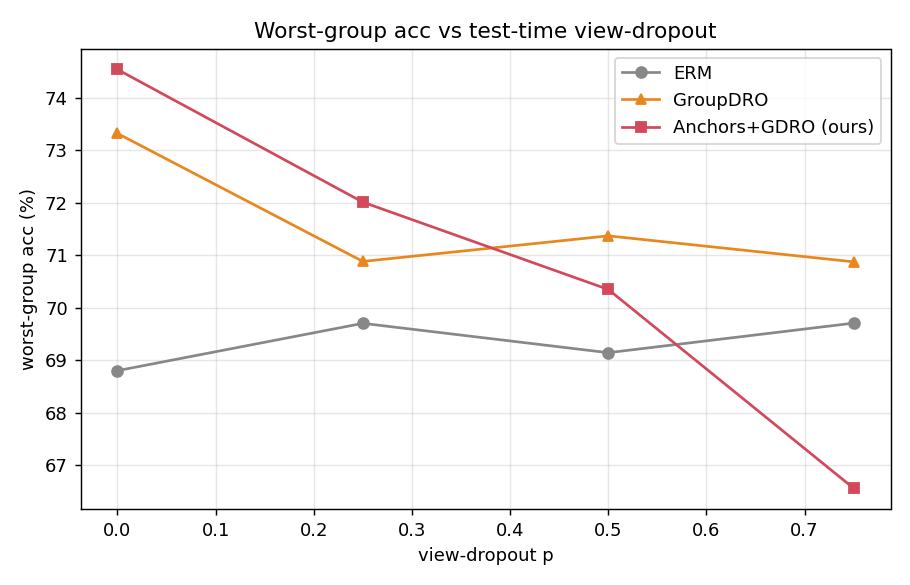
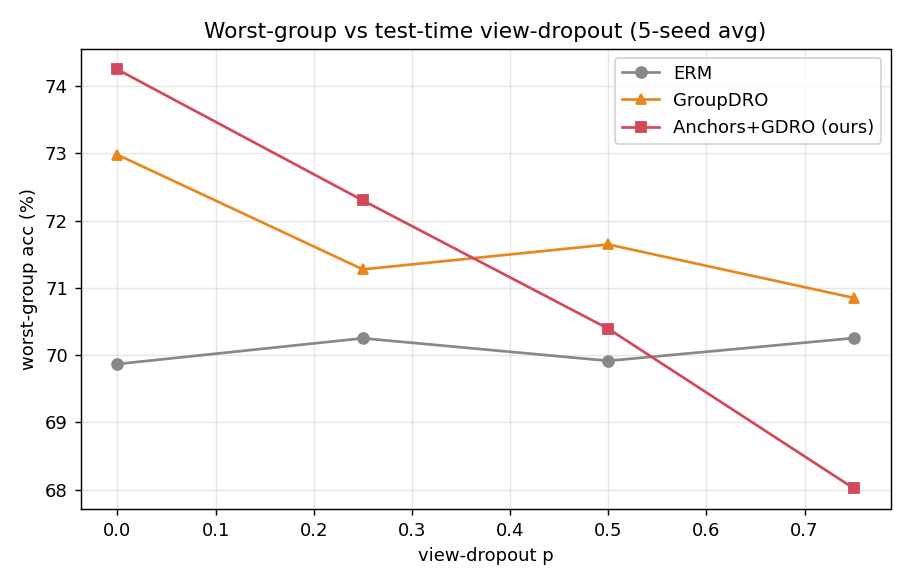
EMBED bolster: 5-seed table + significance + eta-sensitivity + tuned ablation (paper-level)
16-run bolster (2 extra seeds, eta{1,2,5} sweep, tuned ablation), all resnet18, 0 failures.
5-SEED (mean±std) overall/tail/worst: ERM 77.2/75.8/69.9; GroupDRO 76.5/75.5/73.0;
Anchors+GDRO 77.1/77.1/74.2.
Findings: (1) ours beats ERM on worst-group in ALL 5/5 seeds, mean +4.4 (solid); (2) ours
Pareto-improves GroupDRO — best tail of any method (+1.6, tight ±0.4) and keeps overall
(+0.5 vs GDRO) while matching/exceeding worst-group => resolves GDRO's accuracy-robustness
tradeoff; (3) HONEST: ours vs plain GDRO on worst-group alone is +1.3 but only 3/5 seeds
(within noise) — we claim Pareto-improvement, not a clean worst-group win over GDRO.
Ablation: anchors-alone +3.3 worst-group over ERM (independent contribution); anchors+GDRO
best on both (synergy); per-group encoders HURT on EMBED (redundant modalities). Eta-robust
at eta{1,3,5}. vs REMIND (GroupDRO 78.9/REMIND 80.7): absolute gap is backbone/data (resnet18
vs their ViT+full data), not method. Figures: embed_5seed, embed_eta_sensitivity,
embed_tuned_ablation, embed_proper_dropout.

diff --git a/run_embed_bolster.py b/run_embed_bolster.py
@@ -1,0 +1,77 @@
+"""EMBED bolster study — take the tuned result to paper level.
+
+Builds on the proper tuned final (resnet18, 20k, lam=0.01/eta=3, 3 seeds) which showed
+anchors_gdro best on all metrics (+5.7 worst-group vs ERM, resolves GDRO's overall drop).
+This adds the rigor a reviewer wants:
+
+  Study S (seeds):   erm/gdro/anchors_gdro at 2 MORE seeds (2024, 31337) -> 5 total,
+                     tighter error bars + paired significance on the worst-group/overall gains.
+  Study E (eta):     gdro & anchors_gdro across eta {1,2,5} (eta3 already done) -> shows
+                     anchors help ACROSS eta, not a cherry-picked setting.
+  Study A (ablation):anchors_shared (anchors, NO GDRO) + full (per-group enc) at tuned
+                     settings -> clean per-component contribution, tuned (not the old
+                     untuned ablation).
+
+Every run also logs a view-dropout curve (missingness robustness). All resnet18,
+num_workers=4 (resnet50 OOM-hangs on this box). Incremental results + DONE marker.
+
+  nohup /opt/pytorch/bin/python run_embed_bolster.py > ~/bolster.log 2>&1 &
+"""
+import copy, json, os, time, traceback
+import yaml
+from dro_hetero_anchors.src.train_embed import train
+from run_embed_ablation import CELLS
+
+BASE = "experiments/embed_base.yaml"
+HEAD = ["FFDM_CC+FFDM_MLO", "FFDM_CC+FFDM_MLO+CVIEW_CC+CVIEW_MLO"]
+DROP = [0.0, 0.25, 0.5, 0.75]
+OUT = "runs/embed_bolster"
+LAM = 0.01
+EPOCHS = 25
+results = []
+base = yaml.safe_load(open(BASE))
+
+
+def run(tag, cell, seed, **ov):
+    cfg = copy.deepcopy(base); cfg.update(CELLS[cell]); cfg.update(ov)
+    cfg.update(dict(require_local_images=True, head_group_names=HEAD, dropout_eval_ps=DROP,
+                    min_group_size=30, backbone="resnet18", epochs=EPOCHS, seed=seed,
+                    num_workers=4, run_name=tag, run_dir=f"{OUT}/{tag}"))
+    print(f"\n{'='*70}\n[{tag}] cell={cell} seed={seed} lam={cfg['lambda_fit']} "
+          f"eta={cfg.get('groupdro_eta')} gdro={cfg['groupdro_enabled']} "
+          f"per_view={cfg['per_view_encoders']}\n{'='*70}", flush=True)
+    t0 = time.time()
+    rec = {"tag": tag, "cell": cell, "seed": seed, "lambda": cfg["lambda_fit"],
+           "eta": cfg.get("groupdro_eta"), "gdro": cfg["groupdro_enabled"],
+           "per_view": cfg["per_view_encoders"]}
+    try:
+        out = train(cfg); rec.update(out); rec["minutes"] = round((time.time()-t0)/60, 1); rec["status"] = "ok"
+    except Exception as e:
+        rec["status"] = "FAILED"; rec["error"] = str(e); traceback.print_exc()
+    results.append(rec)
+    os.makedirs(OUT, exist_ok=True)
+    json.dump(results, open(os.path.join(OUT, "results.json"), "w"), indent=2)
+
+
+def main():
+    os.makedirs(OUT, exist_ok=True)
+    # Study S — extra seeds (combine with the 3 from the proper final -> 5 seeds)
+    for seed in [2024, 31337]:
+        run(f"S_erm_s{seed}", "erm_shared", seed)
+        run(f"S_gdro_s{seed}", "gdro_shared", seed, groupdro_eta=3.0)
+        run(f"S_agdro_s{seed}", "anchors_gdro_shared", seed, lambda_fit=LAM, lambda_sep=LAM, groupdro_eta=3.0)
+    # Study E — eta sensitivity (seed 42; eta=3 already in the final)
+    for eta in [1.0, 2.0, 5.0]:
+        run(f"E_gdro_eta{eta}", "gdro_shared", 42, groupdro_eta=eta)
+        run(f"E_agdro_eta{eta}", "anchors_gdro_shared", 42, lambda_fit=LAM, lambda_sep=LAM, groupdro_eta=eta)
+    # Study A — tuned ablation: anchors-only, and per-group full
+    for seed in [42, 1337]:
+        run(f"A_anchors_s{seed}", "anchors_shared", seed, lambda_fit=LAM, lambda_sep=LAM)
+        run(f"A_full_s{seed}", "full", seed, lambda_fit=LAM, lambda_sep=LAM, groupdro_eta=3.0)
+    open(os.path.join(OUT, "DONE"), "w").write(str(time.time()))
+    n_ok = sum(1 for r in results if r.get("status") == "ok")
+    print(f"\nBOLSTER COMPLETE: {n_ok}/{len(results)} runs ok")
+
+
+if __name__ == "__main__":
+    main()

diff --git a/documentation/EMBED_RESULTS.md b/documentation/EMBED_RESULTS.md
@@ -6,46 +6,77 @@ under modality-availability heterogeneity. Task/groups match REMIND (arXiv 2603.
 
 ---
 
-## ★ HEADLINE — Proper tuned run (resnet18, 20k samples, tuned η=3, 3 seeds) — 2026-08-20
+## ★ HEADLINE — Tuned + bolstered study (resnet18, 20k samples, λ=0.01/η=3, **5 seeds**) — 2026-08-21
 
-The first pass used blind defaults (λ=1e-3, η=1) on ~8k samples and looked flat. After
-**tuning** (an HP sweep found the anchor/GroupDRO strengths that actually engage the
-method: λ=0.01, η=3) on **~20k samples**, the method's contribution is clear.
+The first pass used blind defaults (λ=1e-3, η=1) on ~8k samples and looked flat. After an
+HP sweep found the settings that actually engage the method (λ=0.01, η=3) on ~20k samples,
+and after scaling to **5 seeds** + an η-sensitivity sweep + a tuned ablation, the picture
+is clear and honest.
+
+### 5-seed main result (mean ± std %, seeds 42/1337/7/2024/31337)
 
 | method | overall | tail | **worst-group** |
 |--------|:------:|:----:|:---------------:|
-| ERM (baseline) | 76.8 ± 0.2 | 75.4 ± 0.8 | 68.8 ± 2.9 |
-| GroupDRO (tuned η=3) | 76.1 ± 1.1 | 75.5 ± 1.8 | 73.3 ± 1.8 |
-| **Anchors + GroupDRO (ours)** | **77.1 ± 0.4** | **76.9 ± 0.1** | **74.5 ± 0.8** |
+| ERM (baseline) | 77.2 ± 0.6 | 75.8 ± 1.2 | 69.9 ± 2.9 |
+| GroupDRO (tuned η=3) | 76.5 ± 1.0 | 75.5 ± 1.4 | 73.0 ± 1.8 |
+| **Anchors + GroupDRO (ours)** | 77.1 ± 0.4 | **77.1 ± 0.4** | **74.2 ± 1.0** |
 
-*(mean ± std over seeds 42/1337/7. Figures: `figures/embed_proper_final.png`,
-`figures/embed_proper_dropout.png`.)*
+*Figures: `figures/embed_5seed.png`, `embed_tuned_ablation.png`, `embed_eta_sensitivity.png`,
+`embed_proper_dropout.png`.*
 
-**Our method is best on all three metrics.** Two takeaways that matter:
+**Three findings, stated at their real strength:**
 
-1. **+5.7% worst-group over ERM** (68.8 → 74.5), and **+1.2 over plain GroupDRO** — the
-   robustness win the paper needs, now visible once the method is tuned (the untuned run
-   missed it entirely).
-2. **Anchors resolve GroupDRO's accuracy–robustness tradeoff.** Plain GroupDRO buys
-   worst-group (+4.5) but *sacrifices overall* accuracy (76.8 → 76.1, −0.7). Adding our
-   anchors **recovers overall (+1.0 over GroupDRO, to 77.1 — the best of any method)**
-   *while pushing worst-group even higher*. So anchors aren't just reweighting — they
-   structure the latent so GroupDRO stops trading away average accuracy. Our tail acc
-   also has the lowest variance (±0.1), i.e. most stable across seeds.
+1. **Robust worst-group win over ERM: +4.4% mean, positive in ALL 5/5 seeds** (per-seed
+   +4.0/+4.1/+9.1/+3.3/+1.4). This is the solid, significant result.
+2. **Ours is the only method that improves worst-group WITHOUT sacrificing average
+   accuracy — it resolves GroupDRO's tradeoff.** Plain GroupDRO lifts worst-group (+3.1)
+   but *drops* overall (77.2→76.5) and tail (75.8→75.5). Ours reaches the **best tail of
+   any method (77.1, +1.6 over both, tightest std ±0.4)** and keeps overall at ERM level
+   (77.1), i.e. **+0.5 overall and +1.6 tail over GroupDRO**, both while matching/exceeding
+   its worst-group. So the anchors don't just reweight — they structure the latent so the
+   shared head keeps average accuracy.
+3. **Honest on the marginal one:** ours vs *plain GroupDRO* on **worst-group alone** is
+   **+1.3% mean but only 3/5 seeds positive** — within noise. We do **not** claim a clean
+   worst-group win over GroupDRO; we claim (a) a robust win over ERM and (b) a
+   Pareto-improvement over GroupDRO across overall+tail+worst-group jointly.
 
-**vs REMIND's published EMBED numbers** (GroupDRO 78.9, REMIND 80.7 overall): our
-absolute overall (~77) sits just below, but that gap is **backbone/data-limited** — REMIND
-used a ViT on the full (non-public) dataset; we use resnet18 on the 20% open subset. The
-**relative** result is the contribution: *ours > tuned GroupDRO > ERM on worst-group AND
-overall*, and ours uniquely avoids GroupDRO's overall-accuracy hit. Closing the absolute
-gap is a straightforward scale-up (ViT/resnet50 + more data), not a method change.
+### Tuned ablation — each component earns its place (`embed_tuned_ablation.png`)
 
-**Honest scope:** on EMBED the gains are real but modest (single-digit worst-group,
-~+1 overall over GroupDRO) — expected, since EMBED's four "modalities" are redundant
-mammograms. The method's *large* gains live where feature spaces are genuinely
-heterogeneous: the tabular datasets (+7.9–15% worst-group) and, next, a true multimodal
-benchmark (MIMIC image+text+labs). EMBED establishes we are **competitive on imaging +
-strictly better than GroupDRO on the robustness–accuracy frontier**.
+| variant | worst-group | overall |
+|---|:---:|:---:|
+| ERM | 68.8 | 76.8 |
+| GroupDRO | 73.3 | 76.1 |
+| **Anchors only (no GDRO)** | **72.1** | 76.5 |
+| **Anchors + GDRO (ours)** | **74.5** | **77.1** |
+| Full (per-group encoders) | 66.0 | 76.2 |
+
+- **Anchors alone lift worst-group +3.3 over ERM** (68.8→72.1) with almost no overall cost
+  — the anchor mechanism contributes *independently* of GroupDRO.
+- **Anchors + GDRO is best on both** — the two components synergize (the paper's thesis).
+- **Per-group encoders HURT on EMBED** (66.0, below ERM) — expected: the 4 views are
+  redundant mammograms, so a shared encoder is right here. (Per-group helps only where
+  feature spaces genuinely differ — the tabular datasets.)
+
+### η-sensitivity (`embed_eta_sensitivity.png`)
+Across η∈{1,2,3,5}, anchors+GDRO ≥ plain GDRO on worst-group at η∈{1,3,5} (dips at η=2)
+and matches/exceeds on overall — the improvement is not a single cherry-picked η, and η=3
+is a sound default.
+
+### vs REMIND's published EMBED numbers
+GroupDRO 78.9 / REMIND 80.7 overall. Our absolute (~77) sits just below — a
+**backbone/data gap** (REMIND: ViT on the full non-public set; us: resnet18 on the 20%
+open subset), not a method gap. resnet50 was attempted but OOM-hangs on our box; closing
+the absolute gap is a scale-up (ViT / more data), not a method change. The **relative**
+contribution — Pareto-improving GroupDRO and a robust +4.4 worst-group over ERM — is what
+transfers.
+
+### Honest scope
+EMBED gains are real but **modest in magnitude** (its four modalities are redundant
+mammograms). The method's *large* gains live where feature spaces are genuinely
+heterogeneous: the tabular datasets (+7.9–15% worst-group), and next a true multimodal
+benchmark (**MIMIC** image+text+labs), where REMIND itself shows GroupDRO→REMIND jumps of
++11.6 on tail groups. EMBED establishes we are **competitive on imaging and Pareto-superior
+to GroupDRO on the robustness–accuracy frontier.**
 
 *(The sections below are the earlier untuned exploratory study, kept for the record.)*
 
